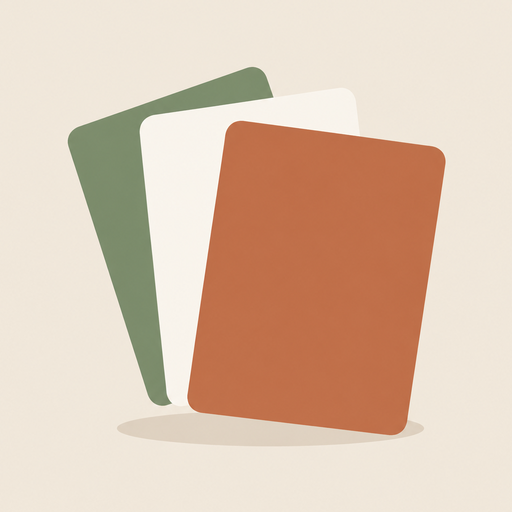
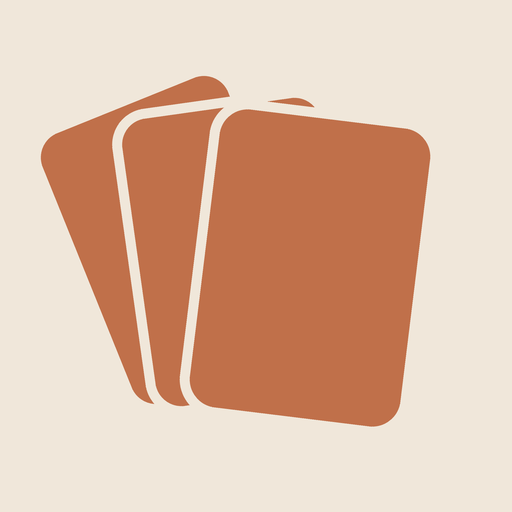
feat(home): a chart of glass over a wash, and one flat thing on it
The canvas wash was a hint — 9% and 12% of two tints mixed into the page
colour — which on a white theme left the middle of the window flat white, and
the middle is where the core and most of the cards sit. Near-opaque cards on
that were separated from the canvas by a hairline and a shadow nobody could
see, and the wash, the one thing saying this is a canvas and not a page,
stopped at every card's edge. So the wash is now a colour (two corner radials
over a gentler sweep) and a card is a pane of frosted glass over it: the
branch hue and the wash carry through, softened, so a card reads as sitting
above the canvas rather than as hiding a patch of it.

Depth is what that costs — colour under a translucent card narrows the
contrast between card and canvas — so the shadow is where it is bought back.
Three layers, and which one is heaviest is the whole of it: a contact shadow
tight to the edge says an object is lying on the surface, while height is said
by the distance between a card and the dark under it. The contact layer stays
a hairline; the two below it are pushed down and pulled in, leaving a lit gap
under the lower edge and the weight further out.

Wires were 1.8px at 0.8 opacity: pastel threads that a card's own border
out-weighed, so the one thing a wire says — which branch a card belongs to —
was the faintest mark on the chart. 2.6px at 0.95, and the narrow flow's rails
and ticks take the same weight, since they are these wires on a list.
[…]

Changed region(s): [[0.0625, 0.125, 0.875, 0.875]]

diff --git a/src/mind/views/factory/home.jsx b/src/mind/views/factory/home.jsx
@@ -683,13 +683,24 @@ function emphasis(node, now) {
  */
 const CORE_W = 340, CORE_H = 320, CARD_W = 240, CARD_H = 135;
 /**
- * The gutter between one rank and the next. Wider than it needs to be to keep boxes apart,
- * because it is also the room the wires bend in: a wire leaves its parent's edge, runs to the
- * midpoint and arrives flat at its child, so a narrow gutter makes every curve the same
- * near-vertical kink and the branch that owns a card stops being readable from its wire.
- * At 1x, a 48px gutter preserves the curve without spending a card's width on empty ranks.
+ * The gutter between one rank and the next, **by the rank it leaves**. It is wider than it
+ * needs to be to keep boxes apart, because it is also the room the wires bend in: a wire
+ * leaves its parent's edge, runs to the midpoint and arrives flat at its child, so a narrow
+ * gutter makes every curve the same near-vertical kink and the branch that owns a card stops
+ * being readable from its wire.
+ *
+ * **The gutter off the core is the one that has to be widest, and it used to be the same 48px
+ * as every other.** Every group on the chart parts from the core, so that one gutter carries
+ * the whole fan — a dozen wires spreading over the full height of the drawing inside 48px of
+ * run, which drew them as a near-vertical bundle leaving one edge rather than as a branch
+ * each. Deeper ranks fan two or three ways over a card's height, and 48px is ample there.
+ * Width is cheap on the widest axis only at the first rank: one gutter, paid once.
+ *
+ * Indexed by the depth of the *parent*, so `[0]` is the core's own.
  */
-const GAP_X = 48, MARGIN = 24;
+const RANK_GUTTER = [104, 56, 48];
+const gutterAt = (depth) => RANK_GUTTER[Math.min(depth, RANK_GUTTER.length - 1)];
+const MARGIN = 24;
 /**
  * The air between two adjacent nodes, by **the rank their branches part at** — not by how deep
  * either of them happens to sit.
@@ -831,7 +842,10 @@ function arrange(model, tones = branchTones(model)) {
     if (!sides[side].length) continue;
     // The node's own extent only; the air between two of them is `spacing`, which sees both
     // and so can ask where they parted. A padded `nodeSize` cannot — it is one number per node.
-    const layout = flextree({ nodeSize: (n) => [n.data.h, n.data.w + GAP_X],
+    // `n.depth` is the rank the gutter leaves: the hub root is the core, so its gutter is the
+    // one the whole fan bends in. A gutter is a node's own padding here, not a pair's, which
+    // is right — every child of one parent leaves through the same run.
+    const layout = flextree({ nodeSize: (n) => [n.data.h, n.data.w + gutterAt(n.depth)],
       spacing: (a, b) => gapAt(divergence(a, b)) });
     const hub = layout.hierarchy({ w: rootBox.w / 2, h: rootBox.h, children: sides[side] });
     layout(hub);
@@ -1428,7 +1442,14 @@ function Branch({ nodes, parent, ...props }) {
 }
 
 const CSS = `
-.hi-work { --bg:var(--bg-0); --work-line:color-mix(in srgb, var(--fg-mute) 25%, var(--bg)); --work-glint:#ffffffd9; --work-shade:#343c5010; --work-shadow:inset 0 1px 0 var(--work-glint), 0 2px 4px #20283805, 0 8px 22px var(--work-shade); --work-shadow-raised:inset 0 1px 0 var(--work-glint), 0 3px 6px #20283808, 0 14px 30px var(--work-shade); --work-branch-l:0.62; --work-label-l:0.48; --work-branch-c:0.1; height:100%; min-height:0; position:relative; display:flex; flex-direction:column; color:var(--fg); background:linear-gradient(115deg, color-mix(in srgb, #ff9393 9%, var(--bg)), var(--bg) 46%, color-mix(in srgb, #86c7ed 12%, var(--bg))); padding-top:var(--hi-safe-top, 0px); font-family:var(--font-display, sans-serif); letter-spacing:0; }
+/* **The wash is what the cards are frosted against, so it has to be a colour and not a hint.**
+   It was one 115deg sweep mixing 9% and 12% of the two tints into the page colour, which on a
+   white theme left the middle of the window flat white — and the middle is where the core and
+   most of the cards sit, so the glass had nothing to pick up and read as plain white boxes on
+   plain white. Two corner-anchored radials over a gentler sweep put the colour where the
+   drawing is and keep it a wash: strong enough to see the blur bend it, far too soft to
+   compete with a title. */
+.hi-work { --bg:var(--bg-0); --work-warm:#ff9393; --work-cool:#86c7ed; --work-wash-warm:30%; --work-wash-cool:34%; --work-sweep-warm:8%; --work-sweep-cool:9%; --work-line:color-mix(in srgb, var(--fg-mute) 25%, var(--bg)); --work-glint:#ffffffd9; --work-shade:#343c502e; --work-shadow:inset 0 1px 0 var(--work-glint), 0 1px 1px #2028380f, 0 10px 20px -6px #20283826, 0 28px 44px -12px var(--work-shade); --work-shadow-raised:inset 0 1px 0 var(--work-glint), 0 1px 1px #20283812, 0 16px 28px -8px #2028382e, 0 40px 64px -16px var(--work-shade); --work-pane:color-mix(in srgb, var(--bg) 72%, transparent); --work-pane-top:color-mix(in srgb, var(--bg) 84%, transparent); --work-frost:blur(18px) saturate(150%); --work-branch-l:0.62; --work-label-l:0.48; --work-branch-c:0.1; height:100%; min-height:0; position:relative; display:flex; flex-direction:column; color:var(--fg); background:radial-gradient(78% 62% at 2% 0%, color-mix(in srgb, var(--work-warm) var(--work-wash-warm), transparent), transparent 72%), radial-gradient(80% 66% at 100% 100%, color-mix(in srgb, var(--work-cool) var(--work-wash-cool), transparent), transparent 72%), linear-gradient(115deg, color-mix(in srgb, var(--work-warm) var(--work-sweep-warm), var(--bg)), var(--bg) 52%, color-mix(in srgb, var(--work-cool) var(--work-sweep-cool), var(--bg))); padding-top:var(--hi-safe-top, 0px); font-family:var(--font-display, sans-serif); letter-spacing:0; }
 .hi-work *, .hi-work *::before, .hi-work *::after { box-sizing:border-box; }
 .hi-work button { font:inherit; color:inherit; background:none; border:0; padding:0; cursor:pointer; text-align:left; }
 .hi-work button:focus-visible { outline:2px solid var(--accent); outline-offset:2px; }
@@ -1442,11 +1463,20 @@ const CSS = `
 .hi-work__canvas img { -webkit-user-drag:none; }
 .hi-work__stage { position:absolute; transform-origin:0 0; }
 .hi-work__wires { position:absolute; left:0; top:0; pointer-events:none; }
-@media (prefers-color-scheme: dark) { :root:not([data-theme="light"]) .hi-work { --work-branch-l:0.7; --work-label-l:0.8; --work-branch-c:0.09; --work-glint:#ffffff12; --work-shade:#00000038; } }
-:root[data-theme="dark"] .hi-work { --work-branch-l:0.7; --work-label-l:0.8; --work-branch-c:0.09; --work-glint:#ffffff12; --work-shade:#00000038; }
-.hi-work__wires path { fill:none; stroke-width:1.8; stroke-linecap:round; opacity:0.8; }
+/* Dark mode softens the highlight, deepens the shadow, and leans the panes more opaque: a
+   blur of a dark wash returns almost no colour, so transparency there costs legibility and
+   buys nothing. The wash itself is dimmed for the same reason — the tints read far stronger
+   against ink than against paper. */
+@media (prefers-color-scheme: dark) { :root:not([data-theme="light"]) .hi-work { --work-branch-l:0.7; --work-label-l:0.8; --work-branch-c:0.09; --work-glint:#ffffff12; --work-shade:#00000066; --work-pane:color-mix(in srgb, var(--bg) 84%, transparent); --work-pane-top:color-mix(in srgb, var(--bg) 90%, transparent); --work-wash-warm:14%; --work-wash-cool:16%; --work-sweep-warm:5%; --work-sweep-cool:6%; } }
+:root[data-theme="dark"] .hi-work { --work-branch-l:0.7; --work-label-l:0.8; --work-branch-c:0.09; --work-glint:#ffffff12; --work-shade:#00000066; --work-pane:color-mix(in srgb, var(--bg) 84%, transparent); --work-pane-top:color-mix(in srgb, var(--bg) 90%, transparent); --work-wash-warm:14%; --work-wash-cool:16%; --work-sweep-warm:5%; --work-sweep-cool:6%; }
+/* **A wire is structure, so it is drawn like structure.** At 1.8px and 0.8 opacity the
+   branch hues came out as pastel threads that a card's border out-weighed, and the one thing
+   a wire says — which branch a card belongs to — was the faintest mark on the chart. */
+.hi-work__wires path { fill:none; stroke-width:2.6; stroke-linecap:round; opacity:0.95; }
 .hi-work__position { position:absolute; }
-.hi-work__core { height:100%; display:flex; flex-direction:column; padding:16px 22px; background:linear-gradient(145deg, color-mix(in srgb, #ff9393 7%, var(--bg)), var(--bg) 45%, color-mix(in srgb, #86c7ed 5%, var(--bg))); border:1px solid var(--work-line); border-radius:8px; }
+/* The core is the same glass one step more solid and one step warmer: it holds the most text
+   of anything on the chart, so it is the one pane where the wash behind is a cost. */
+.hi-work__core { height:100%; display:flex; flex-direction:column; padding:16px 22px; background:linear-gradient(145deg, color-mix(in srgb, var(--work-warm) 7%, var(--work-pane-top)), var(--work-pane-top) 45%, color-mix(in srgb, var(--work-cool) 6%, var(--work-pane-top))); backdrop-filter:var(--work-frost); -webkit-backdrop-filter:var(--work-frost); border:1px solid var(--work-line); border-radius:14px; }
 .hi-work__core-title { display:flex; gap:10px; align-items:center; margin:0; min-height:36px; font-size:24px; font-weight:600; }
 .hi-work__pip { width:11px; height:11px; flex:0 0 11px; border-radius:50%; background:var(--accent); }
 .hi-work__roles { display:flex; gap:14px; padding:10px 0 12px; border-bottom:1px solid var(--work-line); }
@@ -1463,7 +1493,13 @@ const CSS = `
 .hi-work__update p { font-size:14px; color:var(--fg-dim, var(--fg-mute)); }
 .hi-work__core-more { align-self:flex-start; margin-top:6px; padding:2px 0; font-size:13px; font-weight:500; color:var(--accent); }
 .hi-work__core-more:hover { text-decoration:underline; }
-.hi-work__node { height:100%; background:linear-gradient(155deg, var(--bg), color-mix(in srgb, var(--bg) 94%, transparent)); border:1px solid var(--work-line); border-radius:8px; display:flex; flex-direction:column; }
+/* **A card is a pane of glass over the wash, not a white box on it.** Near-opaque white on a
+   near-white page left the separation entirely to a hairline and a shadow nobody could see,
+   and the wash — the one thing that says this is a canvas — stopped at the card's edge. A
+   blurred, tinted backdrop separates a card by *material*: the colour under it carries
+   through, softened, so the card sits above the canvas instead of hiding a patch of it. The
+   top-lit gradient is what keeps it a pane and not a smear. */
+.hi-work__node { height:100%; background:linear-gradient(155deg, var(--work-pane-top), var(--work-pane)); backdrop-filter:var(--work-frost); -webkit-backdrop-filter:var(--work-frost); border:1px solid var(--work-line); border-radius:12px; display:flex; flex-direction:column; }
 .hi-work__node, .hi-work__core, .hi-work__tile { box-shadow:var(--work-shadow); }
 /* Animate the contents, never the positioned chart or its zoom transform. Backwards fill
    releases opacity afterwards so the model's emphasis still owns the settled card. */
@@ -1487,12 +1523,17 @@ const CSS = `
    drew the hub off its own spine. */
 .hi-work__position[data-dir="-1"] .hi-work__group > button { flex-direction:row-reverse; text-align:right; }
 .hi-work__position[data-dir="0"] .hi-work__group > button { justify-content:center; }
-.hi-work__group-icon { width:40px; height:40px; flex:0 0 40px; border-radius:10px; object-fit:cover; }
+/* **An icon is flat, so nothing around it is not.** The picture carries a background of its
+   own, which against the canvas wash cut a hard square out of it; a hairline ring in the
+   group's own colour closes that edge and joins the icon to the label beside it. No shadow
+   and no gradient here on purpose — every other pane on this chart is glass, and the one
+   flat thing on it should stay the one flat thing. */
+.hi-work__group-icon { width:40px; height:40px; flex:0 0 40px; border-radius:11px; object-fit:cover; box-shadow:0 0 0 1px color-mix(in srgb, var(--group-tone) 30%, transparent); }
 /* The group at the centre is the same heading a size up, standing where the core stood. */
 .hi-work__group[data-root] { font-size:22px; }
 .hi-work__group[data-root] > button { gap:12px; padding:0 8px; }
-.hi-work__group[data-root] .hi-work__group-icon { width:56px; height:56px; flex-basis:56px; border-radius:14px; }
-.hi-work__trail { position:absolute; top:12px; left:16px; z-index:3; max-width:calc(100% - 32px); display:flex; flex-wrap:wrap; align-items:center; gap:6px; padding:6px 14px; font-size:13px; line-height:1.4; color:var(--fg-mute); background:var(--bg); border:1px solid var(--work-line); border-radius:999px; box-shadow:var(--work-shadow); }
+.hi-work__group[data-root] .hi-work__group-icon { width:56px; height:56px; flex-basis:56px; border-radius:15px; }
+.hi-work__trail { position:absolute; top:12px; left:16px; z-index:3; max-width:calc(100% - 32px); display:flex; flex-wrap:wrap; align-items:center; gap:6px; padding:6px 14px; font-size:13px; line-height:1.4; color:var(--fg-mute); background:var(--work-pane-top); backdrop-filter:var(--work-frost); -webkit-backdrop-filter:var(--work-frost); border:1px solid var(--work-line); border-radius:999px; box-shadow:var(--work-shadow); }
 .hi-work__trail-step { display:inline-flex; align-items:center; gap:6px; min-width:0; }
 .hi-work__trail button { color:var(--fg-mute); }
 .hi-work__trail button:hover { color:var(--fg); text-decoration:underline; text-underline-offset:3px; }
@@ -1504,7 +1545,9 @@ const CSS = `
 .hi-work__group[data-more] .hi-work__group-title { -webkit-line-clamp:1; }
 .hi-work__group-more { font-size:13px; line-height:1.35; font-weight:500; opacity:.8; white-space:nowrap; }
 .hi-work__open, .hi-work__node { padding:10px 14px; }
-.hi-work__tile { height:100%; border:1px solid var(--work-line); border-radius:8px; overflow:hidden; background:color-mix(in srgb, var(--fg-mute) 10%, transparent); }
+/* A tile is the one pane whose contents are opaque, so it is frosted only where the picture
+   has not loaded — and it keeps the cards' corner so a rank of both still reads as one rank. */
+.hi-work__tile { height:100%; border:1px solid var(--work-line); border-radius:12px; overflow:hidden; background:color-mix(in srgb, var(--fg-mute) 10%, var(--work-pane)); backdrop-filter:var(--work-frost); -webkit-backdrop-filter:var(--work-frost); }
 .hi-work__tile button { display:block; width:100%; height:100%; padding:0; }
 .hi-work__tile img { display:block; width:100%; height:100%; object-fit:cover; object-position:top center; }
 .hi-work__open { display:flex; flex-direction:column; flex:1; min-width:0; height:100%; padding:0; }
@@ -1531,11 +1574,11 @@ const CSS = `
 /* The narrow flow grades its air by rank for the same reason the chart does: nesting alone
    put a task's own results as far from it as the next task's were. Inheriting --rank-gap
    carries the tightest value on down, so a fourth rank is no looser than the third. */
-.hi-work__branch { --rank-gap:30px; list-style:none; padding:0 0 0 18px; margin:0 0 0 8px; border-left:2px solid var(--rail, var(--work-line)); }
+.hi-work__branch { --rank-gap:30px; list-style:none; padding:0 0 0 18px; margin:0 0 0 8px; border-left:2.6px solid var(--rail, var(--work-line)); }
 .hi-work__branch .hi-work__branch { --rank-gap:18px; margin-left:0; padding-left:12px; }
 .hi-work__branch .hi-work__branch .hi-work__branch { --rank-gap:10px; }
 .hi-work__branch li { position:relative; padding-top:var(--rank-gap); min-width:0; }
-.hi-work__branch li::before { content:''; position:absolute; width:18px; left:-18px; top:calc(var(--rank-gap) + 32px); border-top:2px solid var(--tick, var(--work-line)); }
+.hi-work__branch li::before { content:''; position:absolute; width:18px; left:-18px; top:calc(var(--rank-gap) + 32px); border-top:2.6px solid var(--tick, var(--work-line)); }
 .hi-work__branch .hi-work__node { min-height:116px; }
 .hi-work__branch .hi-work__group { height:auto; min-height:28px; }
 .hi-work__branch .hi-work__tile { height:auto; aspect-ratio:16 / 9; max-width:240px; }

diff --git a/src/foundation/server/home.rs b/src/foundation/server/home.rs
@@ -52,12 +52,22 @@ pub const DEFAULT_ICON: &[u8] = include_bytes!("assets/home-group-icon.png");
 pub const ICON_ANCHOR_REF: &str = "drive/home/group-icon.png";
 
 /// Where the icon-sized copies live, under the drive. A generation comes back at 1024px or
-/// more and a megabyte or two; Home draws it at 40px on every open, so the copy is what is
-/// recorded and the original stays where it was made.
+/// more and a megabyte or two; Home draws it small, so the copy is what is recorded and the
+/// original stays where it was made.
 const ICONS_DIR: &str = "home/icons";
 
-/// 40px at 3x.
-const ICON_PX: u32 = 120;
+/// **The size the icon is ever actually drawn at, not the size it usually is.** This was 120 —
+/// "40px at 3x" — which is the heading's icon on the densest screen and nothing else. Two
+/// things draw it larger: a group taken as the centre wears a 56px icon, and the chart zooms
+/// to 2. So the real ceiling is 56 x 2 x 3 = 336 device pixels, and at 120 the one act that
+/// reaches in to look at an icon was the act that blurred it.
+///
+/// That is the same rule the result tiles already hold — `home.jsx` sizes a shot so it is 1:1
+/// at `ZOOM_MAX` on a retina screen, after a 480x270 store was found to be 1:1 at 1x and an
+/// upscale from there. The icons were never held to it. 360 covers the ceiling with a little
+/// headroom and costs about 21 KB an icon rather than 5, which a surface that draws a dozen
+/// of them behind the browser's cache does not notice.
+const ICON_PX: u32 = 360;
 
 /// `<data_dir>/home` — one surface's state, and nothing else reads it.
 pub fn home_dir(data_dir: &Path) -> PathBuf {

diff --git a/docs/arch/home.md b/docs/arch/home.md
@@ -176,12 +176,22 @@ With the chart cut to the window first, the scale is a constant that was chosen 
 
 **Height and width are both spent on legibility, not on fitting.** One appearance per kind of
 record, so a picture is never a strip inside a card; air graded by rank, so a branch can be
-seen to be one; a picture drawn large enough to read, below; and a 48px gutter between
-ranks, because a wire runs from its parent's edge to the midpoint and arrives flat at its child,
-so a narrow gutter makes every curve the same near-vertical kink and a card can no longer be
-traced back to the branch that owns it. Each of these was once priced in scale, then in scroll.
-They are now priced in cards put away, which is the cheapest of the three: a press on the group
-gets them back, and the cards that are drawn are the ones most in hand.
+seen to be one; a picture drawn large enough to read, below; and a gutter between ranks wide
+enough for the wires to bend in, because a wire runs from its parent's edge to the midpoint and
+arrives flat at its child, so a narrow gutter makes every curve the same near-vertical kink and
+a card can no longer be traced back to the branch that owns it. Each of these was once priced
+in scale, then in scroll. They are now priced in cards put away, which is the cheapest of the
+three: a press on the group gets them back, and the cards that are drawn are the ones most in
+hand.
+
+**The gutter is the rank's, and the first one is not like the others.** It was one 48px run
+everywhere. But every group on the chart parts from the core, so that first gutter carries
+the entire fan — a dozen wires spreading over the full height of the drawing inside 48px of
+horizontal run, which draws them as a near-vertical bundle leaving one edge rather than as a
+branch each. A deeper rank fans two or three ways over about a card's height, where 48px is
+ample. So the gutter is indexed by the rank it leaves — 104px off the core, 56 off a
+first-level group, 48 below that. Width is the axis the chart is already long on, and this
+spends it once, at the one rank where the bend is the whole reading.
 
 **Air is graded by where two nodes' branches part, not by how deep either one sits.** One gap
 for every pair drew every rank as a flat column: a task's own pictures were exactly as far
@@ -204,11 +214,31 @@ line height, leaving the footer its own space instead of truncating over unused 
 Group headings occupy a narrower 144x56 box, wrap to two lines, and use stronger text
 contrast than metadata; they remain unframed labels, not cards.
 
-**Cards separate from the canvas.** A soft, broad warm-to-cool canvas wash sits behind
-near-opaque cards with neutral hairline borders, an inset edge highlight and layered soft
-shadows. The core carries a little more elevation and a faint warm-to-cool surface tint.
-Tasks, sessions and picture tiles share the same 8px corners; nothing adds a status-colored
-border or changes their sizes. Dark mode softens the highlight and deepens the shadow.
+**Cards separate from the canvas by material, not by being lighter than it.** The wash behind
+them is a real warm-to-cool colour — two corner radials over a diagonal sweep — and a card is
+a pane of frosted glass over it: a translucent, top-lit surface that blurs and saturates what
+is under it, with a neutral hairline border, an inset edge highlight and three shadow layers.
+
+**The three layers are what makes a card hover rather than rest, and which one is heaviest is
+the whole of it.** A contact shadow tight to the edge says an object is lying on the surface;
+height is said by the *distance* between a card and the dark under it. So the contact layer
+stays a hairline and the two below it are pushed down and pulled in — a large y-offset with a
+negative spread — leaving a lit gap under the card's lower edge and the weight further out.
+Depth is what the wash cost: colour under a translucent card narrows the contrast between
+card and canvas, and the shadow is where that contrast is bought back.
+The wash and the glass are one decision. Near-opaque cards over a hint of a wash was the same
+idea attempted with neither half doing its part: on a white theme the middle of the window —
+where the core and most of the cards sit — came out flat white, so a white card on it was
+separated by a hairline alone, and the wash, the one thing saying this is a canvas and not a
+page, stopped at every card's edge. Blur over colour separates by depth instead: the branch
+hue and the wash carry *through* a card, softened, so it reads as sitting above the canvas
+rather than as hiding a patch of it. The core is the same glass one step more solid and one
+step warmer, and carries a little more elevation — it holds the most text on the chart, so it
+is the one pane where the wash behind is a cost. Tasks, sessions and picture tiles share the
+same 12px corners; nothing adds a status-colored border or changes their sizes. Dark mode
+softens the highlight, deepens the shadow, dims the wash and leans the panes more opaque: a
+blur of a dark wash returns almost no colour, so transparency there costs legibility and buys
+nothing.
 Cards enter with a short fade and 10px rise, staggered at 28ms intervals capped at 224ms.
 Stable node identities keep live refreshes from replaying entry animations. Animation never
 owns layout or the canvas zoom transform, and releases opacity back to the model's emphasis
@@ -216,13 +246,23 @@ when finished. Pointer hover raises actionable cards 2px; keyboard focus has an 
 accent outline. Reduced-motion preferences disable entry and movement effects.
 Group headings pair their label with a 40px icon, and the label is drawn in its group's
 colour. The icon is the group's own when one has been drawn for it and a shared default until
-then — see § *Icons* below. Home never picks one from a label or from task text.
+then — see § *Icons* below. Home never picks one from a label or from task text. The icon is
+the one flat thing on a chart of glass, and it is kept that way deliberately: no shadow and no
+gradient under it, only a hairline ring in the group's own colour, which closes the hard square
+its own baked background would otherwise cut out of the wash and ties it to the label beside
+it.
 **A heading sits against the wire that reaches it**, since one box width for every group
 leaves a short label half a box of slack: on the chart's right the icon leads, on the left it
 trails, so both hug the wire from their parent and the slack falls outward where the
 children's wires bend. Siblings still line their icons up, because the flush edge is the same
 for all of them at a rank. A group taken as the centre is centred instead — it has no parent
 and its wires leave both ways, so packing it to a side drew the hub off its own spine.
+
+**A wire is drawn like structure, because that is what it is.** At a 1.8px stroke and 0.8
+opacity the branch hues came out as pastel threads that a card's own hairline border
+out-weighed, so the one thing a wire says — which branch a card belongs to — was the faintest
+mark on the chart. 2.6px at 0.95 is what makes a branch followable across a gutter; the narrow
+flow's rails and ticks take the same weight, since they are these wires on a list.
 
 **A wire's colour is its category's, and never a status.** Wires used to take the status of
 the node they pointed at: accent for in progress, accent-2 for on duty and for a picture, grey
@@ -493,14 +533,41 @@ every call and every model, and eight icons drawn that way do not look like a se
 one shared picture, keeping its background, palette, flat shapes and framing and changing only
 the object, does. So `hi_text_to_image` is never the way an icon is made.
 
+**The style is flat, one ink, filled, and the picture is what has to say so.** Two colours
+and no more — one background, one ink. The object is a solid silhouette in that ink rather
+than a line drawing of one, and where two of its parts overlap they are separated by a gap of
+the background colour, never by a second colour, an outline or a shade. No gradient, no
+shading, no highlight, no drop shadow, nothing suggesting a light source.
+
+Carrying that means the shipped picture must itself hold nothing to copy that the rule
+forbids. The first one was three sheets in three colours with a soft drop shadow under them:
+at 40px the shadow was invisible and the palette was a smudge, and at 1024 both were an
+invitation. It is now the same three sheets in the one ink, told apart by background-coloured
+gaps — which is the mono rule demonstrated rather than described, since the separation
+problem is the first one any object with parts will hit.
+
+It also means the words naming the style are there to *refuse* what the picture cannot: an
+image model reaches for depth and for a palette unasked, so the drawer is told to look at what
+came back and send it round again if it came out lit or coloured. One dimensional or
+many-coloured icon among eight flat ones is what breaks a set, and nothing downstream can
+flatten it after the fact — the write files an icon-sized copy, and a copy of a shaded picture
+is a shaded picture.
+
 - **An icon belongs to its label, not to a write.** The arrangement is replaced whole on every
   pass, and a writer that leaves `icon` out keeps the one that label already had. Rearranging
   is not redrawing, and a forgotten field must not cost a generation per group to put back. A
   renamed group is a new label and starts on the default unless the writer passes the old ref.
-- **What is recorded is an icon-sized copy.** A generation comes back at 1024px or more and a
-  megabyte or two, and Home draws every icon at 40px on every open. The write crops the offered
-  picture to its centred square, scales it to 120px (40px at 3x), files it under
-  `drive/home/icons/`, and records that ref. The original stays where it was made.
+- **What is recorded is an icon-sized copy, cut to the size it is ever drawn at.** A
+  generation comes back at 1024px or more and a megabyte or two. The write crops the offered
+  picture to its centred square, scales it to 360px, files it under `drive/home/icons/`, and
+  records that ref; the original stays where it was made. 360 is not the usual draw — a
+  heading's icon is 40px — it is the ceiling: **a group taken as the centre wears a 56px icon
+  and the chart zooms to 2**, so 56 × 2 × 3 = 336 device pixels on the densest screen. It was
+  120, "40px at 3x", which is the heading on a dense screen and nothing else, so the one act
+  that reaches in to look at an icon was the act that blurred it. That is the same rule the
+  picture tiles already hold and the icons were never held to — see *Every card and every
+  picture is one 240x135 box* above, where a 480x270 store was found to be 1:1 at 1x and an
+  upscale from there. The cost is about 21 KB an icon against 5.
 - **An icon that cannot be used is refused on its own.** It might not be a `drive/` ref,
   might name no file, or might not decode. The arrangement still lands, the label keeps what it
   had, and the answer says why.

diff --git a/src/identity/workers/task-manager.md b/src/identity/workers/task-manager.md
@@ -569,13 +569,22 @@ part nobody will tell you about later.
 The call's answer names the groups still wearing the default icon and gives the ref of the
 picture to draw from. For each, pick one object that stands for what the group *is* to the
 person, rather than its label drawn literally, and make it with `hi_image_to_image` from that
-ref: keep everything about how the picture is drawn (background, palette, flat shapes,
-framing, how much of the frame the object fills), change only the object, and put no text in
-it. Never draw one from nothing with `hi_text_to_image`: the shared source picture is the only
-thing that makes icons drawn weeks apart look like one set. Look at what came back before you
-use it, then send the arrangement again with that ref as the group's `icon`. An icon stays with
-its label from pass to pass without being sent again. A renamed group is a new label, so pass
-its old `icon` along when it still stands for the same thing.
+ref: keep everything about how the picture is drawn — its background, its framing, how much
+of the frame the object fills, and above all its style, which is **flat, one ink, filled**.
+Two colours and no more, the one background and the one ink. The object is a solid silhouette
+in that ink, not a line drawing of one, and where two of its parts overlap they are told
+apart by a gap of the background colour — never by a second colour, an outline or a shade.
+No gradient, no shading, no highlight, no drop shadow, nothing suggesting a light source.
+Change only the object, and put no text in it.
+
+Never draw one from nothing with `hi_text_to_image`: the shared source picture is the only
+thing that makes icons drawn weeks apart look like one set. **Look at what came back**, and
+send it back to be drawn again if it came out shaded, glossy, lit, or in colours the source
+did not have — an image model reaches for depth and for a palette unasked, and one
+dimensional or many-coloured icon among eight flat ones is what breaks a set. Then send the
+arrangement again with that ref as the group's `icon`. An icon stays with its label from pass
+to pass without being sent again. A renamed group is a new label, so pass its old `icon`
+along when it still stands for the same thing.
 
 Say in your report what you rearranged and why, the same way you say what you closed. A
 person who sees their screen change and cannot find out what decided it stops trusting the
